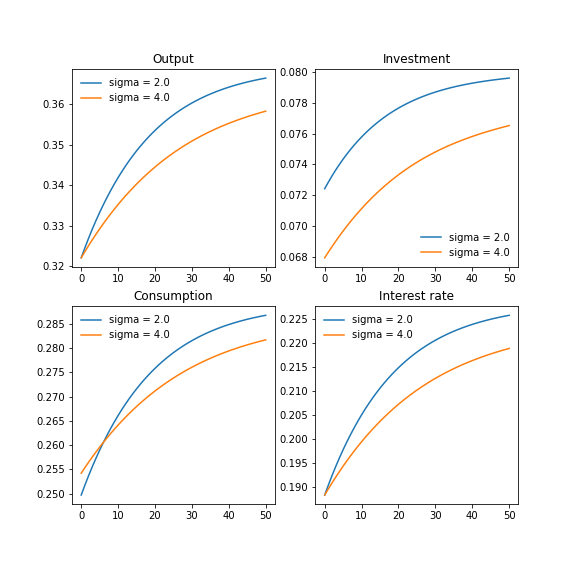
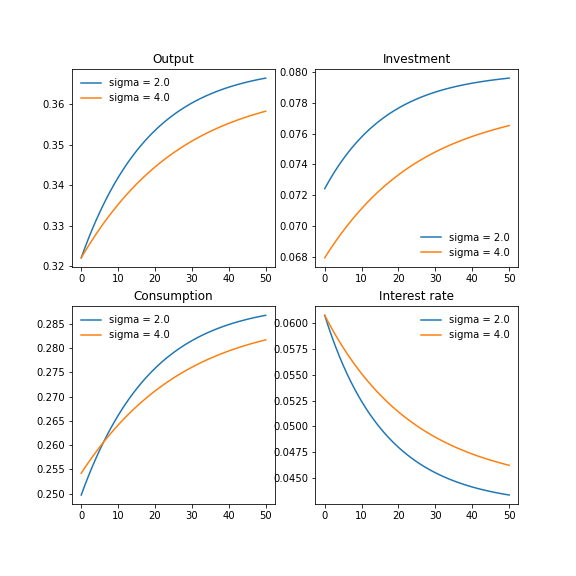
Done upto 2(b) and partially 2(c)

diff --git a/HW1/main_Q2.py b/HW1/main_Q2.py
@@ -15,6 +15,7 @@ Create Sep 2nd, 2022 (Masaki Tanaka, Washington University in St. Louis)
 """
 
 from mtQuantMacroHW1 import Det_NCG_Mdl
+import numpy as np
 import matplotlib.pyplot as plt
 import pandas as pd
 import wbdata
@@ -28,36 +29,61 @@ from statsmodels.tsa.filters.hp_filter import hpfilter
 T      = 100
 A_list = [0.592, 0.588, 0.561, 0.581, 0.596, 0.601, 0.605] + [0.606 for t in range(7, T + 1)]
 
+
 # Generate a NCG model instance
 model3 = Det_NCG_Mdl(T = T, A_list = A_list)
 
 # -------------------------------------------------------------------------
-# (a) Calculate the steady state
+# (a) Implement extended path to derive the dynamics of k and l
 # -------------------------------------------------------------------------
 print("\n",
       "\n **********************************",\
       "\n        Question 2. (a)            ",\
       "\n **********************************",\
       )
+# Calculate the initial steady state (under A = 0.592)
 model3.SteadyState(t = 0)
 
-k_ss_new, l_ss_new, c_ss_new = model3.SteadyState(t = T, PrintResult = False, ReturnResult = True)
+# Calcurlte the new steady-state consistent with A = 0.606
+k_ss_new, _, _, _, _, _ = model3.SteadyState(t = T, PrintResult = False, ReturnResult = True)
 
+# Prepare a guess for the extended path method. Here, I guess a linear transition.
 k_path_guess = [model3.k_ss + (k_ss_new - model3.k_ss) * t / (T + 1) for t in range(T + 1)]
 
+# Implement the extended path
 model3.DoExtendedPath(k_path_guess, k_min = model3.k_ss * 0.5, k_max = k_ss_new * 1.1, GraphicName='ExtendedPath_variableA.png')
 
 
 # -------------------------------------------------------------------------
-# (b-1) Calculate l_0 corresponding to the given k_0
+# (b) Calculate the other variables' dynamics
 # -------------------------------------------------------------------------
 print("\n",
       "\n **********************************",\
       "\n        Question 2. (b)            ",\
       "\n **********************************",\
       )
+model3.CalcDynamics(model3.k_path)
 
+Y_hat = [(np.log(model3.y_path[t]) - np.log(model3.y_ss)) * 100 for t in range(8)]
+L_hat = [(np.log(model3.l_path[t]) - np.log(model3.l_ss)) * 100 for t in range(8)] # This is not used in (b), but in (c)
+I_hat = [(np.log(model3.x_path[t]) - np.log(model3.x_ss)) * 100 for t in range(8)]
+C_hat = [(np.log(model3.c_path[t]) - np.log(model3.c_ss)) * 100 for t in range(8)]
+RR    = [model3.r_path[t] * 100 for t in range(8)]
 
+# Plot
+x = range(8)
+fig, ax = plt.subplots(2, 2, figsize=(8,8))
+
+ax[0, 0].plot(x, Y_hat)
+ax[0, 0].set_title('Output gap')
+ax[1, 0].plot(x, C_hat)
+ax[1, 0].set_title('Consumption gap')
+ax[0, 1].plot(x, I_hat)
+ax[0, 1].set_title('Investment gap')
+ax[1, 1].plot(x, RR)
+ax[1, 1].set_title('Real interest rate')
+
+plt.savefig('Other_Variable_Responses_to_the_shock.png')
 
 # -------------------------------------------------------------------------
 # (c) Implement extended path to derive the dynamics of k and l
@@ -70,6 +96,7 @@ print("\n",
 # Connect to FRED
 fred = Fred(api_key = '824eaabba782e478f1473dc862757ab9')
 
+
 # Obtain the necessary data from FRED
 Y_obs = fred.get_series('GDPC1')
 L_obs = fred.get_series('PAYEMS')
@@ -79,16 +106,18 @@ C_obs = fred.get_series('PCECC96')
 # Obtain the real interest rate date from the World Bank database
 R_obs = wbdata.get_series('FR.INR.RINR', country=['USA'])
 
-# Detrend Y, L, I, and C
-Y_obs_cyc, Y_obs_tre = hpfilter(Y_obs, 1600)
-L_obs_cyc, Y_obs_tre = hpfilter(L_obs, 1600)
-I_obs_cyc, Y_obs_tre = hpfilter(I_obs, 1600)
-C_obs_cyc, Y_obs_tre = hpfilter(C_obs, 1600)
-
+# Apply HP-filter to log Y, log L, log I, and log C
+# The resulting cyclical components are log-difference between observed data
+# and filtered trend, meaning they have the same unit as the counterparts 
+# in the model
+Y_hat_obs, _ = hpfilter(np.log(Y_obs), 1600)
+L_hat_obs, _ = hpfilter(np.log(L_obs), 1600)
+I_hat_obs, _ = hpfilter(np.log(I_obs), 1600)
+C_hat_obs, _ = hpfilter(np.log(C_obs), 1600)
 
 
 print(R_obs['2021'])
-print(Y_obs_cyc)
+print(Y_hat_obs)
 print(type(Y_obs))
 print(type(R_obs))
 print("\n")

diff --git a/HW1/mtQuantMacroHW1.py b/HW1/mtQuantMacroHW1.py
@@ -60,21 +60,37 @@ class Det_NCG_Mdl:
         
         # Calculate the steady-state consumption
         c_ss = A * k_ss**theta * l_ss**(1-theta) - delta*k_ss
+
+        # Calculate the steady-state output
+        y_ss = A * k_ss**theta * l_ss**(1-theta)
+        
+        # Calculate the steady-state investment
+        x_ss = y_ss - c_ss
+        
+        # Calculate the steady-state interest rate
+        r_ss = A * theta * (k_ss / l_ss)**(theta - 1) - delta
         
         if PrintResult:
             print(\
                   "\n  k_ss = {:.4f}".format(k_ss),\
                   "\n  l_ss = {:.4f}".format(l_ss),\
                   "\n  c_ss = {:.4f}".format(c_ss),\
+                  "\n  y_ss = {:.4f}".format(y_ss),\
+                  "\n  x_ss = {:.4f}".format(x_ss),\
+                  "\n  r_ss = {:.4f}".format(r_ss),\
                   "\n"
                   )
         if ReturnResult:
-            return k_ss, l_ss, c_ss
+            return k_ss, l_ss, c_ss, y_ss, x_ss, r_ss
         else:
             # Store the steady-state values as attributes
             self.k_ss = k_ss
             self.l_ss = l_ss
             self.c_ss = c_ss
+            self.y_ss = y_ss
+            self.x_ss = x_ss
+            self.r_ss = r_ss
+
 
     def Calc_l(self, k_t, t = 0):
         theta = self.theta
@@ -357,7 +373,7 @@ class Det_NCG_Mdl:
 
                 
     def CalcDynamics(self, k_path):
-        A_path = self.A_path
+        A_list = self.A_list
         theta  = self.theta
         delta  = self.delta
         
@@ -368,7 +384,7 @@ class Det_NCG_Mdl:
         l_path = [self.Calc_l(k_path[t], t) for t in range(len(k_path) - 1)]
         
         # Dynamics of output
-        y_path = [A_path[t] * k_path[t]**theta * l_path[t]**(1-theta) for t in range(len(k_path) - 1)]
+        y_path = [A_list[t] * k_path[t]**theta * l_path[t]**(1-theta) for t in range(len(k_path) - 1)]
         
         # Dynamics of investment
         x_path = [k_path[t+1] - k_path[t] * (1 - delta) for t in range(len(k_path) - 1)]
@@ -377,7 +393,7 @@ class Det_NCG_Mdl:
         c_path = [y_path[t] - x_path[t] for t in range(len(k_path) - 1)]
                 
         # Dynamics of interest rate (= net return on capital)
-        r_path =  [A_path[t] * theta * ((k_path[t]/l_path[t])**(1-theta)) - delta for t in range(len(k_path) - 1)]
+        r_path =  [A_list[t] * theta * ((k_path[t]/l_path[t])**(theta - 1)) - delta for t in range(len(k_path) - 1)]
         
         # Store the result as attributes
         self.l_path = l_path

diff --git a/HW1/main_Q1.py b/HW1/main_Q1.py
@@ -71,6 +71,7 @@ print("\n",
       )
 # Initial guess: linear transition
 k_path_guess = [model1.k_0 + (model1.k_ss - model1.k_0) * i / (T + 1) for i in range(T + 1)]
+
 model1.DoExtendedPath(k_path_guess, k_max = model1.k_ss * 1.1, GraphicName='ExtendedPath_sigma2.png')
 
 # -------------------------------------------------------------------------
